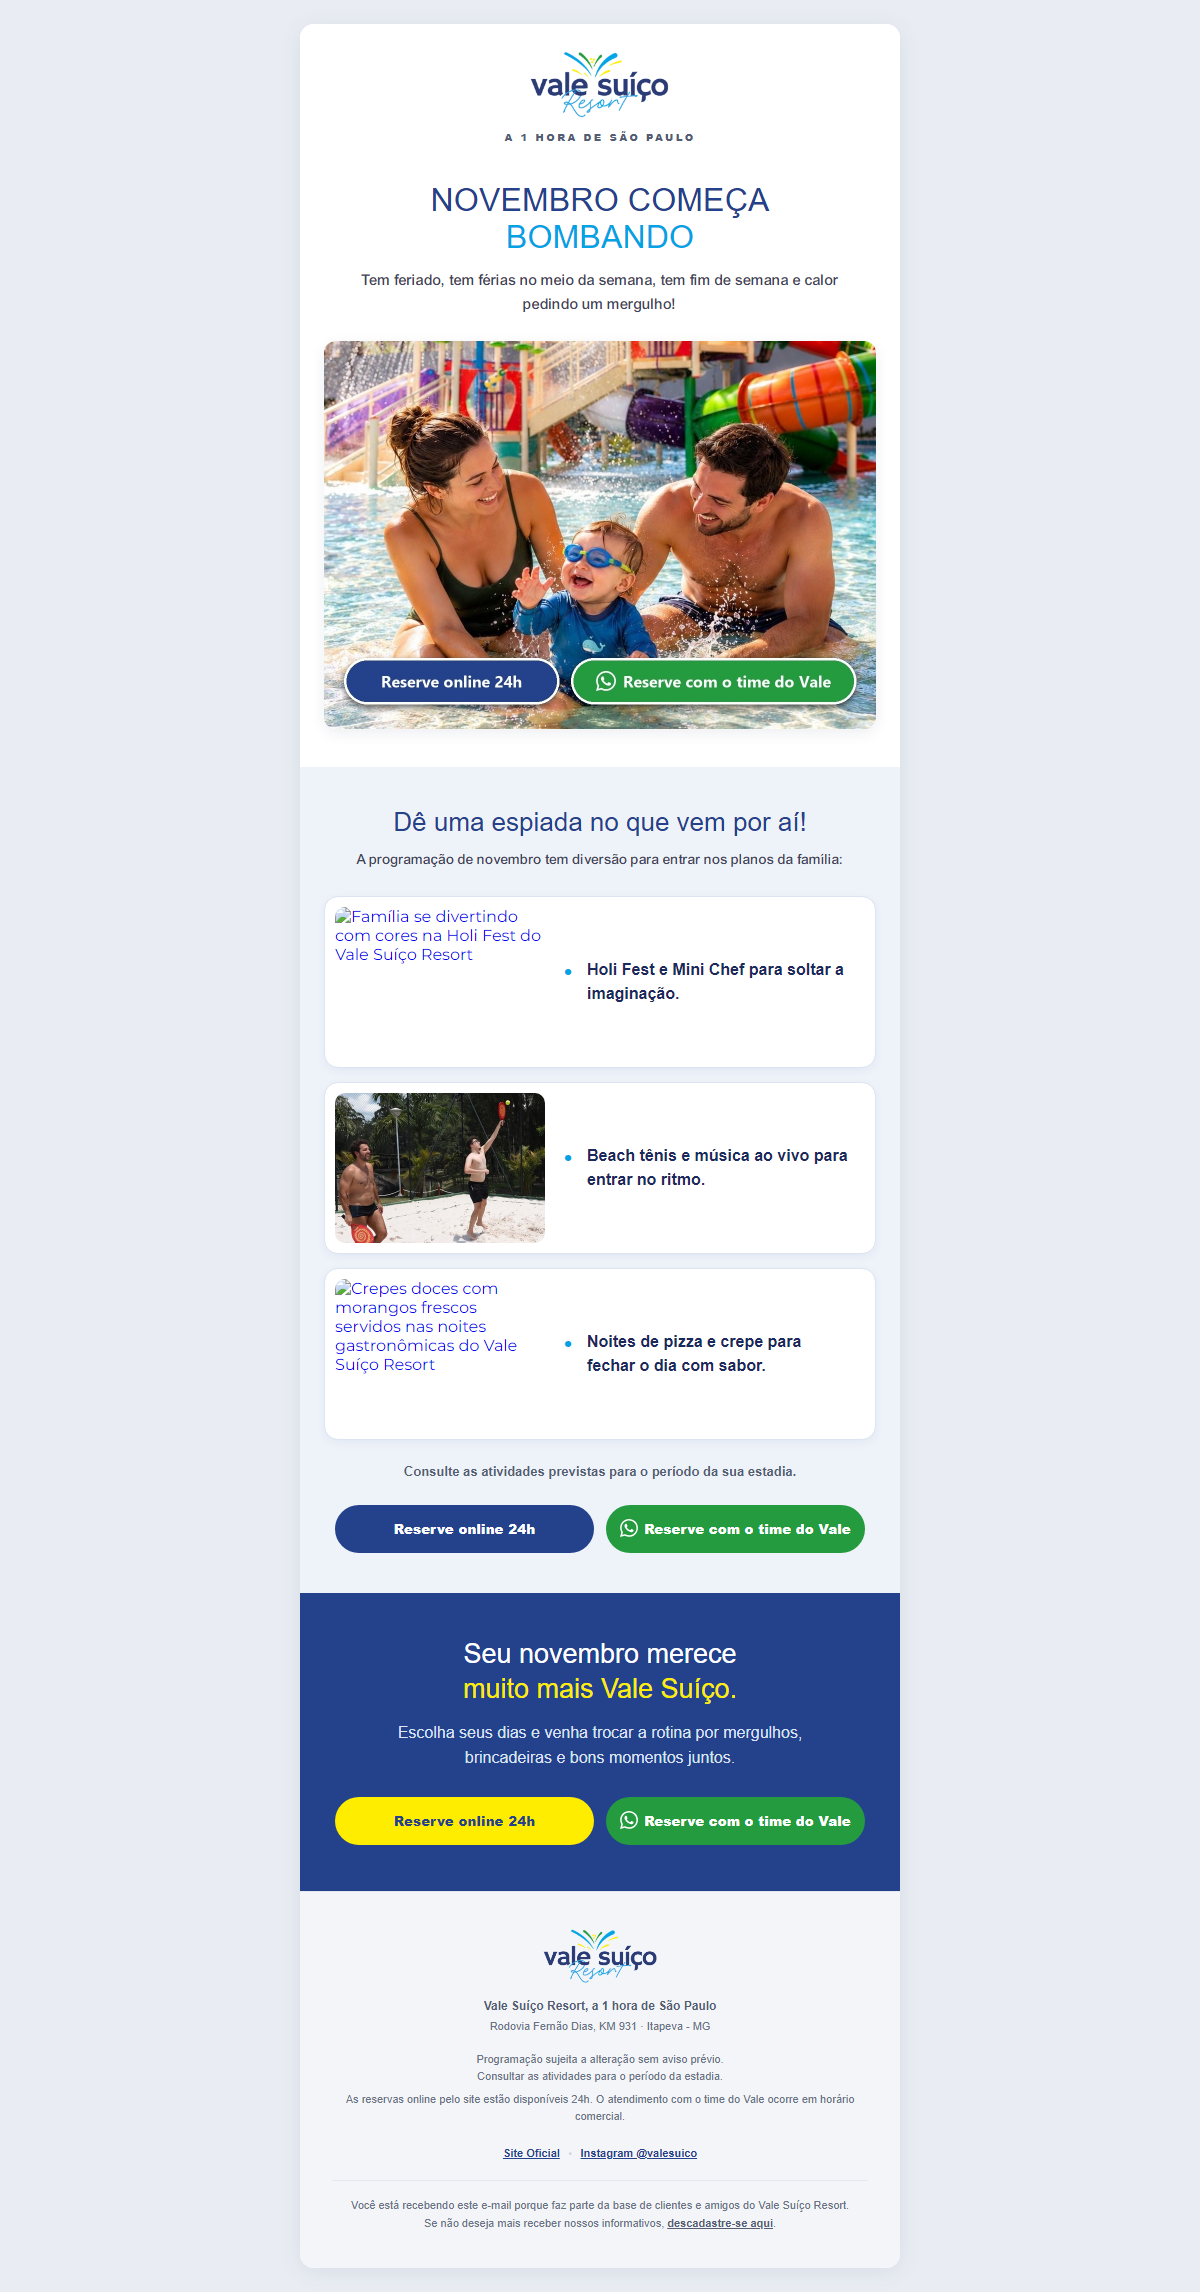
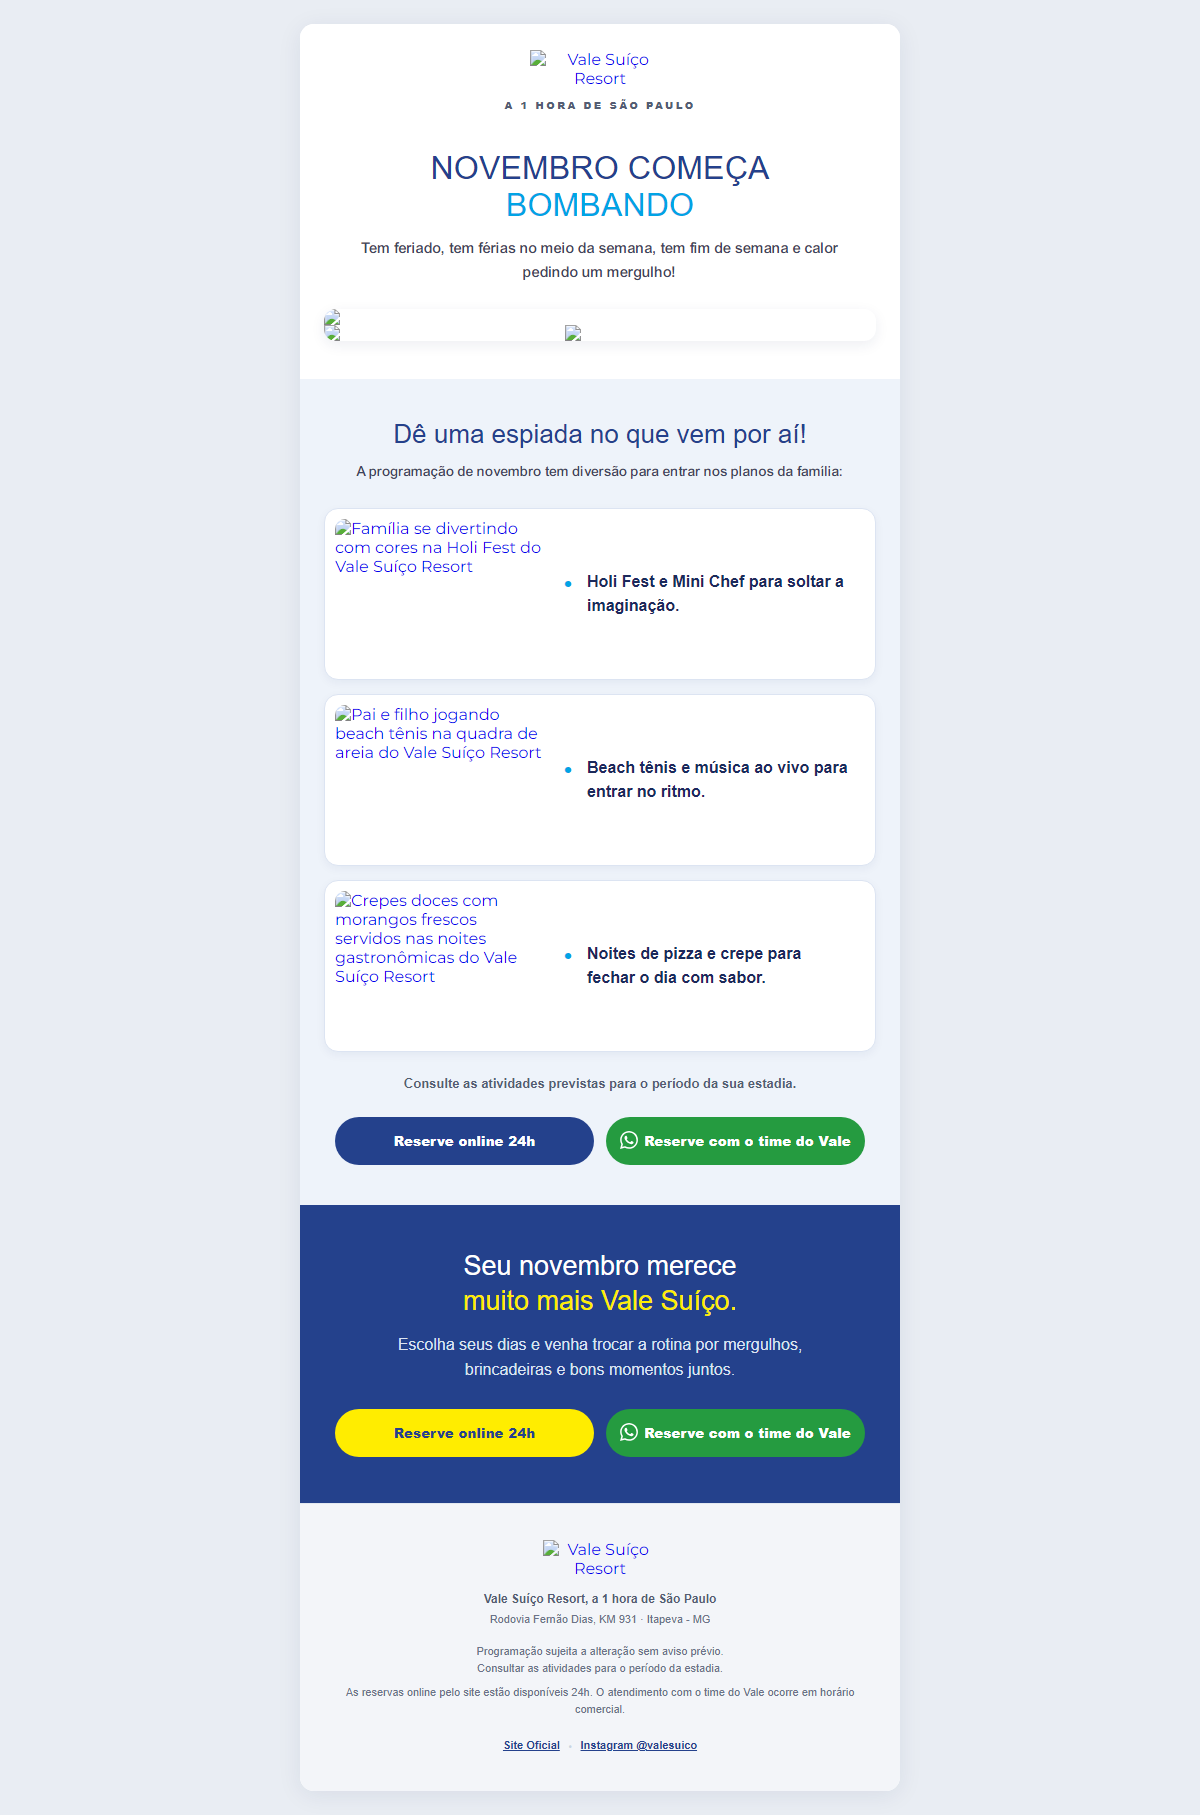
fix: remover bloco de descadastro do rodape

Changed region(s): [[0.2467, 0.0, 0.7708, 0.9873]]

diff --git a/VALE-SUICO_EMAIL_NOVEMBRO-COMECA-BOMBANDO.html b/VALE-SUICO_EMAIL_NOVEMBRO-COMECA-BOMBANDO.html
@@ -377,7 +377,7 @@
 
             <!-- Links Institucionais -->
             <tr>
-              <td align="center" style="padding-bottom: 18px;">
+              <td align="center" style="padding-bottom: 0;">
                 <table role="presentation" border="0" cellpadding="0" cellspacing="0" align="center">
                   <tr>
                     <td style="padding: 0 8px;">
@@ -393,16 +393,6 @@
                     </td>
                   </tr>
                 </table>
-              </td>
-            </tr>
-
-            <!-- Descadastro Institucional Aprovado -->
-            <tr>
-              <td align="center" style="border-top: 1px solid #E2E8F0; padding-top: 16px;">
-                <p style="margin: 0; font-family: 'Archivo', Arial, sans-serif; font-size: 11px; line-height: 1.6; color: #6B7389; text-align: center;">
-                  Você está recebendo este e-mail porque faz parte da base de clientes e amigos do Vale Suíço Resort.<br />
-                  Se não deseja mais receber nossos informativos, <a href="{{DESCADASTRAR}}" target="_blank" style="color: #545D73; text-decoration: underline; font-weight: 600;">descadastre-se aqui</a>.
-                </p>
               </td>
             </tr>
           </table>

diff --git a/index.html b/index.html
@@ -377,7 +377,7 @@
 
             <!-- Links Institucionais -->
             <tr>
-              <td align="center" style="padding-bottom: 18px;">
+              <td align="center" style="padding-bottom: 0;">
                 <table role="presentation" border="0" cellpadding="0" cellspacing="0" align="center">
                   <tr>
                     <td style="padding: 0 8px;">
@@ -393,16 +393,6 @@
                     </td>
                   </tr>
                 </table>
-              </td>
-            </tr>
-
-            <!-- Descadastro Institucional Aprovado -->
-            <tr>
-              <td align="center" style="border-top: 1px solid #E2E8F0; padding-top: 16px;">
-                <p style="margin: 0; font-family: 'Archivo', Arial, sans-serif; font-size: 11px; line-height: 1.6; color: #6B7389; text-align: center;">
-                  Você está recebendo este e-mail porque faz parte da base de clientes e amigos do Vale Suíço Resort.<br />
-                  Se não deseja mais receber nossos informativos, <a href="{{DESCADASTRAR}}" target="_blank" style="color: #545D73; text-decoration: underline; font-weight: 600;">descadastre-se aqui</a>.
-                </p>
               </td>
             </tr>
           </table>

diff --git a/FICHA-TECNICA-E-GUIA-DE-DISPARO.md b/FICHA-TECNICA-E-GUIA-DE-DISPARO.md
@@ -39,4 +39,4 @@
 - [x] **CTAs Padronizados nos 3 Blocos:** `"Reserve online 24h"` (compra no site) e `"Reserve com o time do Vale"` (WhatsApp, botão verde `#259B40`), empilhados automaticamente no celular.
 - [x] **Sem Grade de Print nem Datas na Arte:** Atrações apresentadas sem prometer datas fixas durante todo o mês.
 - [x] **Restrições Comerciais e de Serviços:** Sem menção ou exibição de preço, desconto, Black Friday, SPA, vinhos ou fondue.
-- [x] **Rodapé Aprovado:** Inclui `"Programação sujeita a alteração sem aviso prévio."`, `"Consultar as atividades para o período da estadia."`, esclarecimento sobre reserva online 24h, assinatura Vale Suíço Resort e link de descadastro (`{{DESCADASTRAR}}`).
+- [x] **Rodapé Aprovado:** Inclui `"Programação sujeita a alteração sem aviso prévio."`, `"Consultar as atividades para o período da estadia."`, esclarecimento sobre reserva online 24h e assinatura Vale Suíço Resort com links oficiais.

diff --git a/README.md b/README.md
@@ -26,7 +26,7 @@ Você pode visualizar o layout responsivo diretamente no link do GitHub Pages:
    - Headline harmônica em 2 linhas: *“Seu novembro merece muito mais Vale Suíço.”*
    - Texto de convite e CTAs finais destacados.
 4. **Rodapé:**
-   - Assinatura oficial Vale Suíço Resort, endereço e links institucionais com descadastro seguro.
+   - Assinatura oficial Vale Suíço Resort, endereço e links institucionais.
 
 ## 🔘 Botões de Conversão (CTAs)
 - `Reserve online 24h` *(Azul `#24418C` ou Amarelo `#FFED00` no fechamento)*
